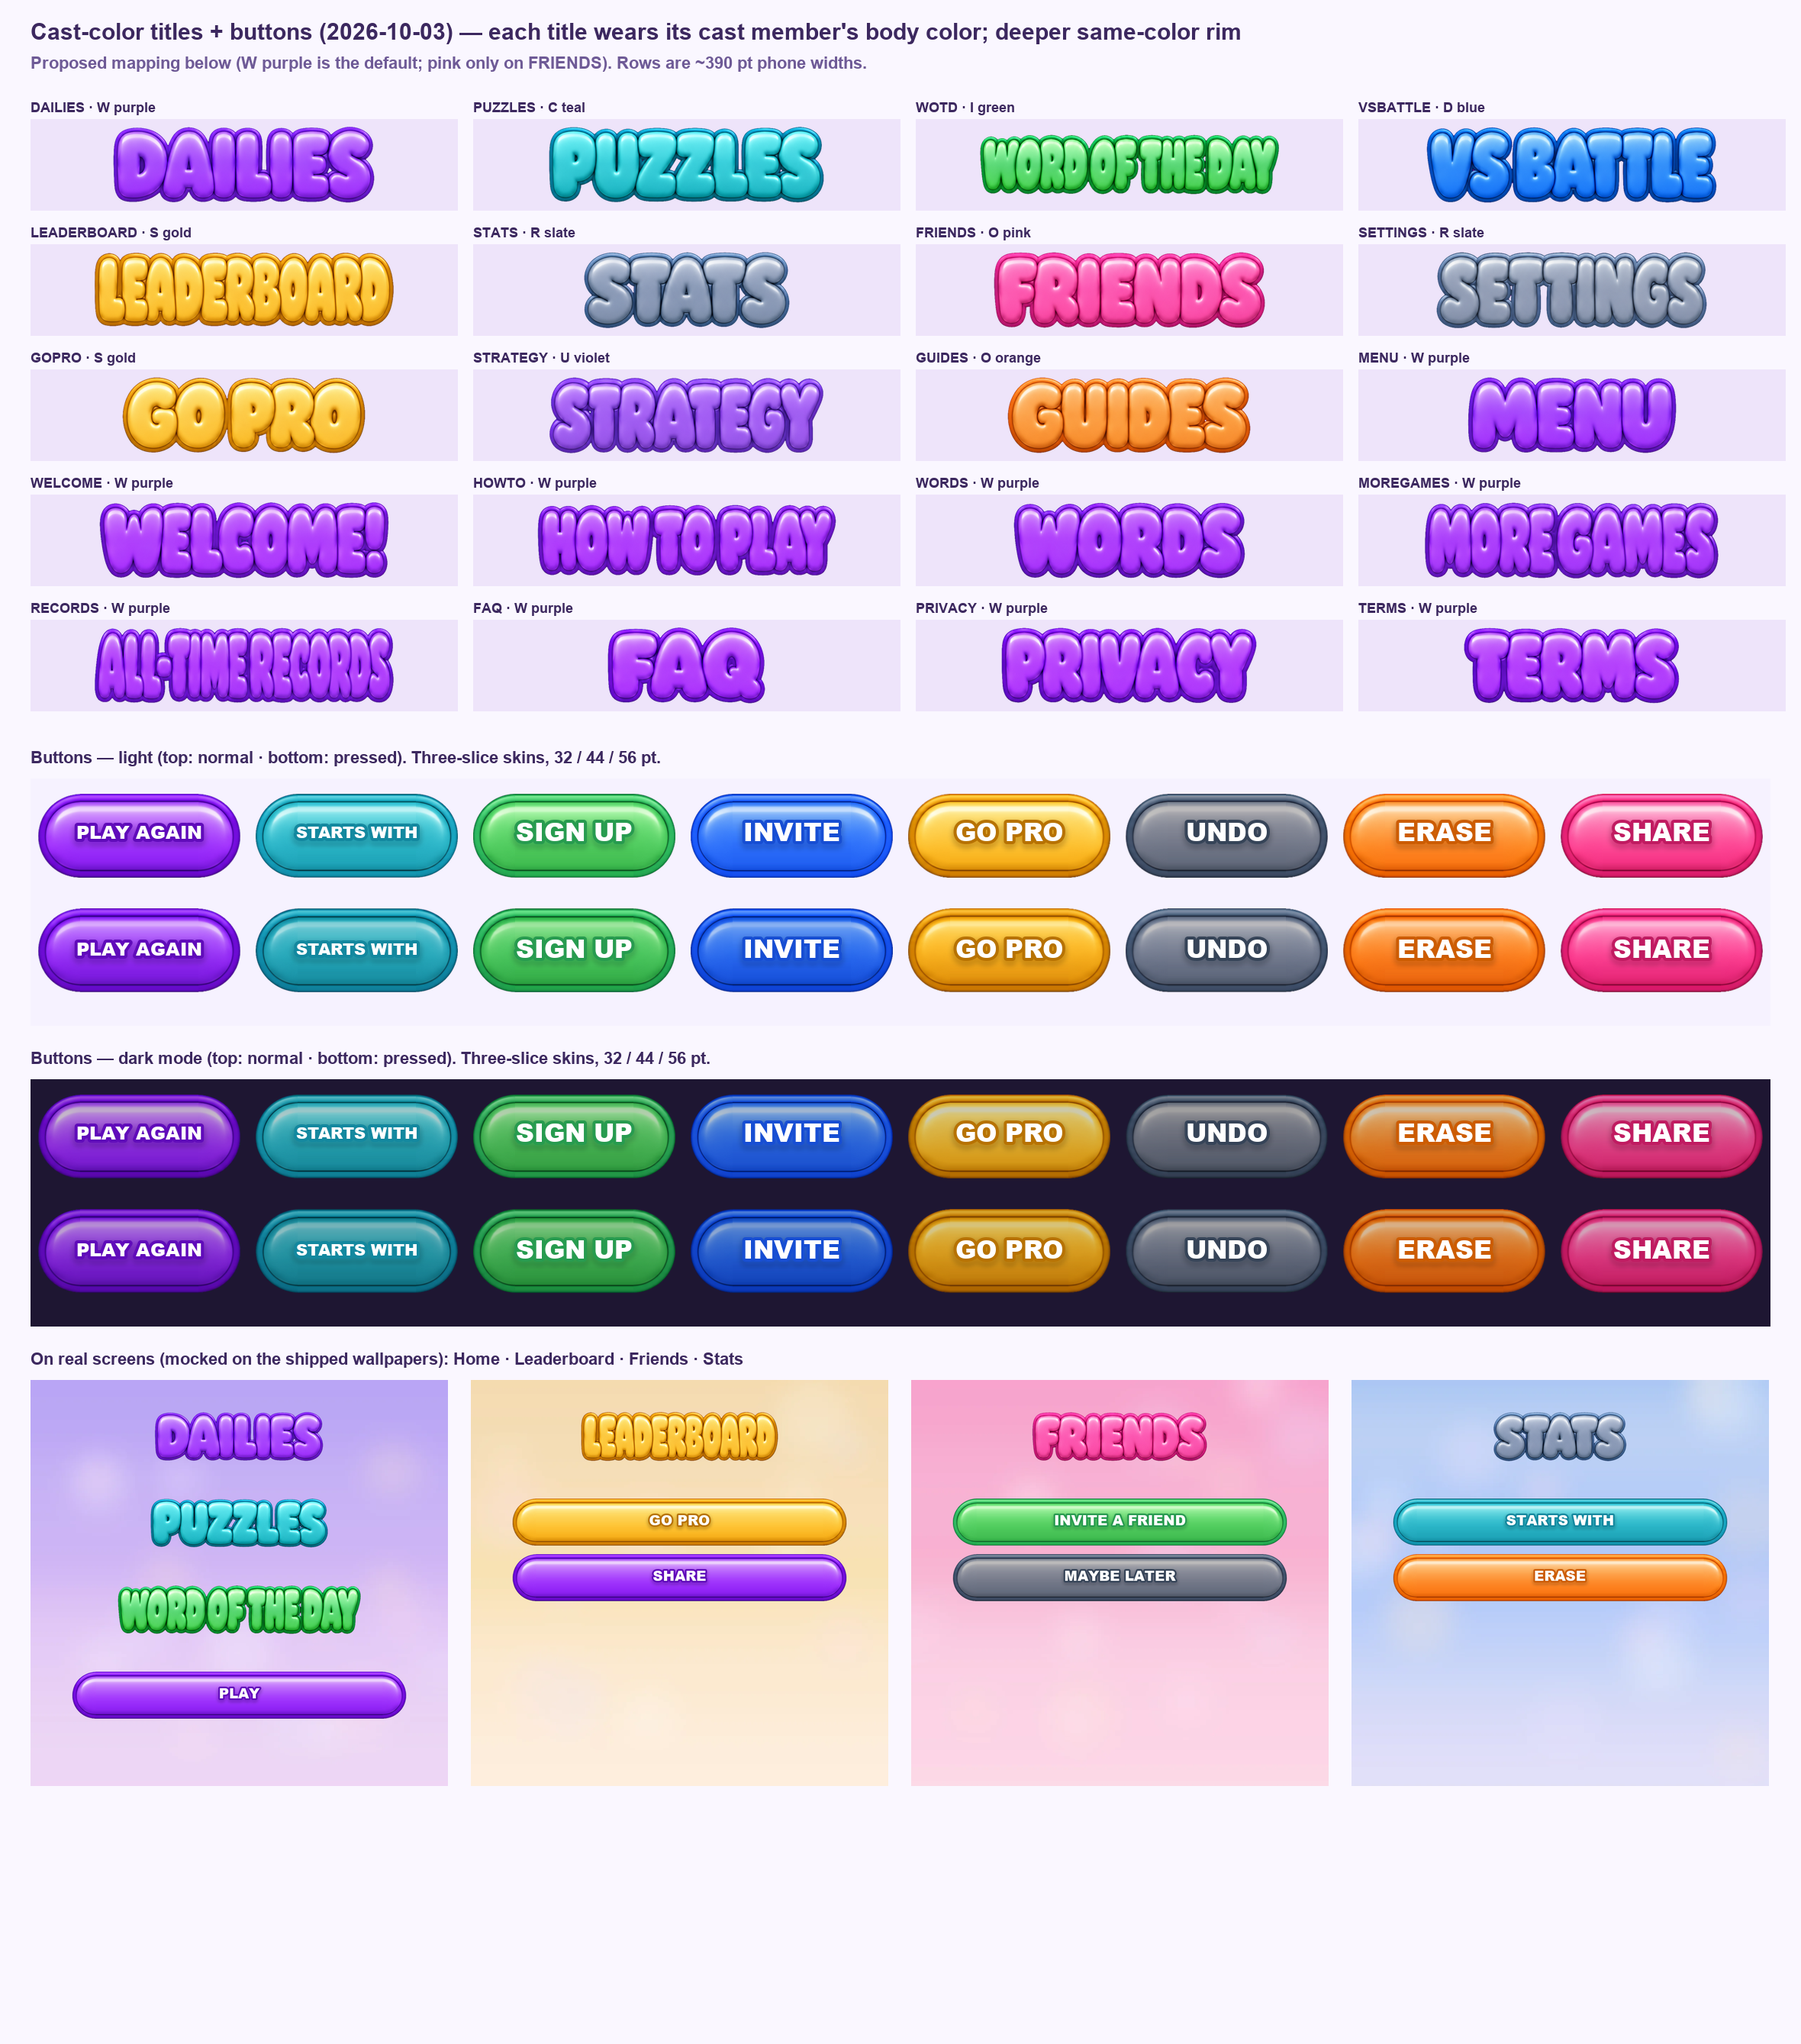
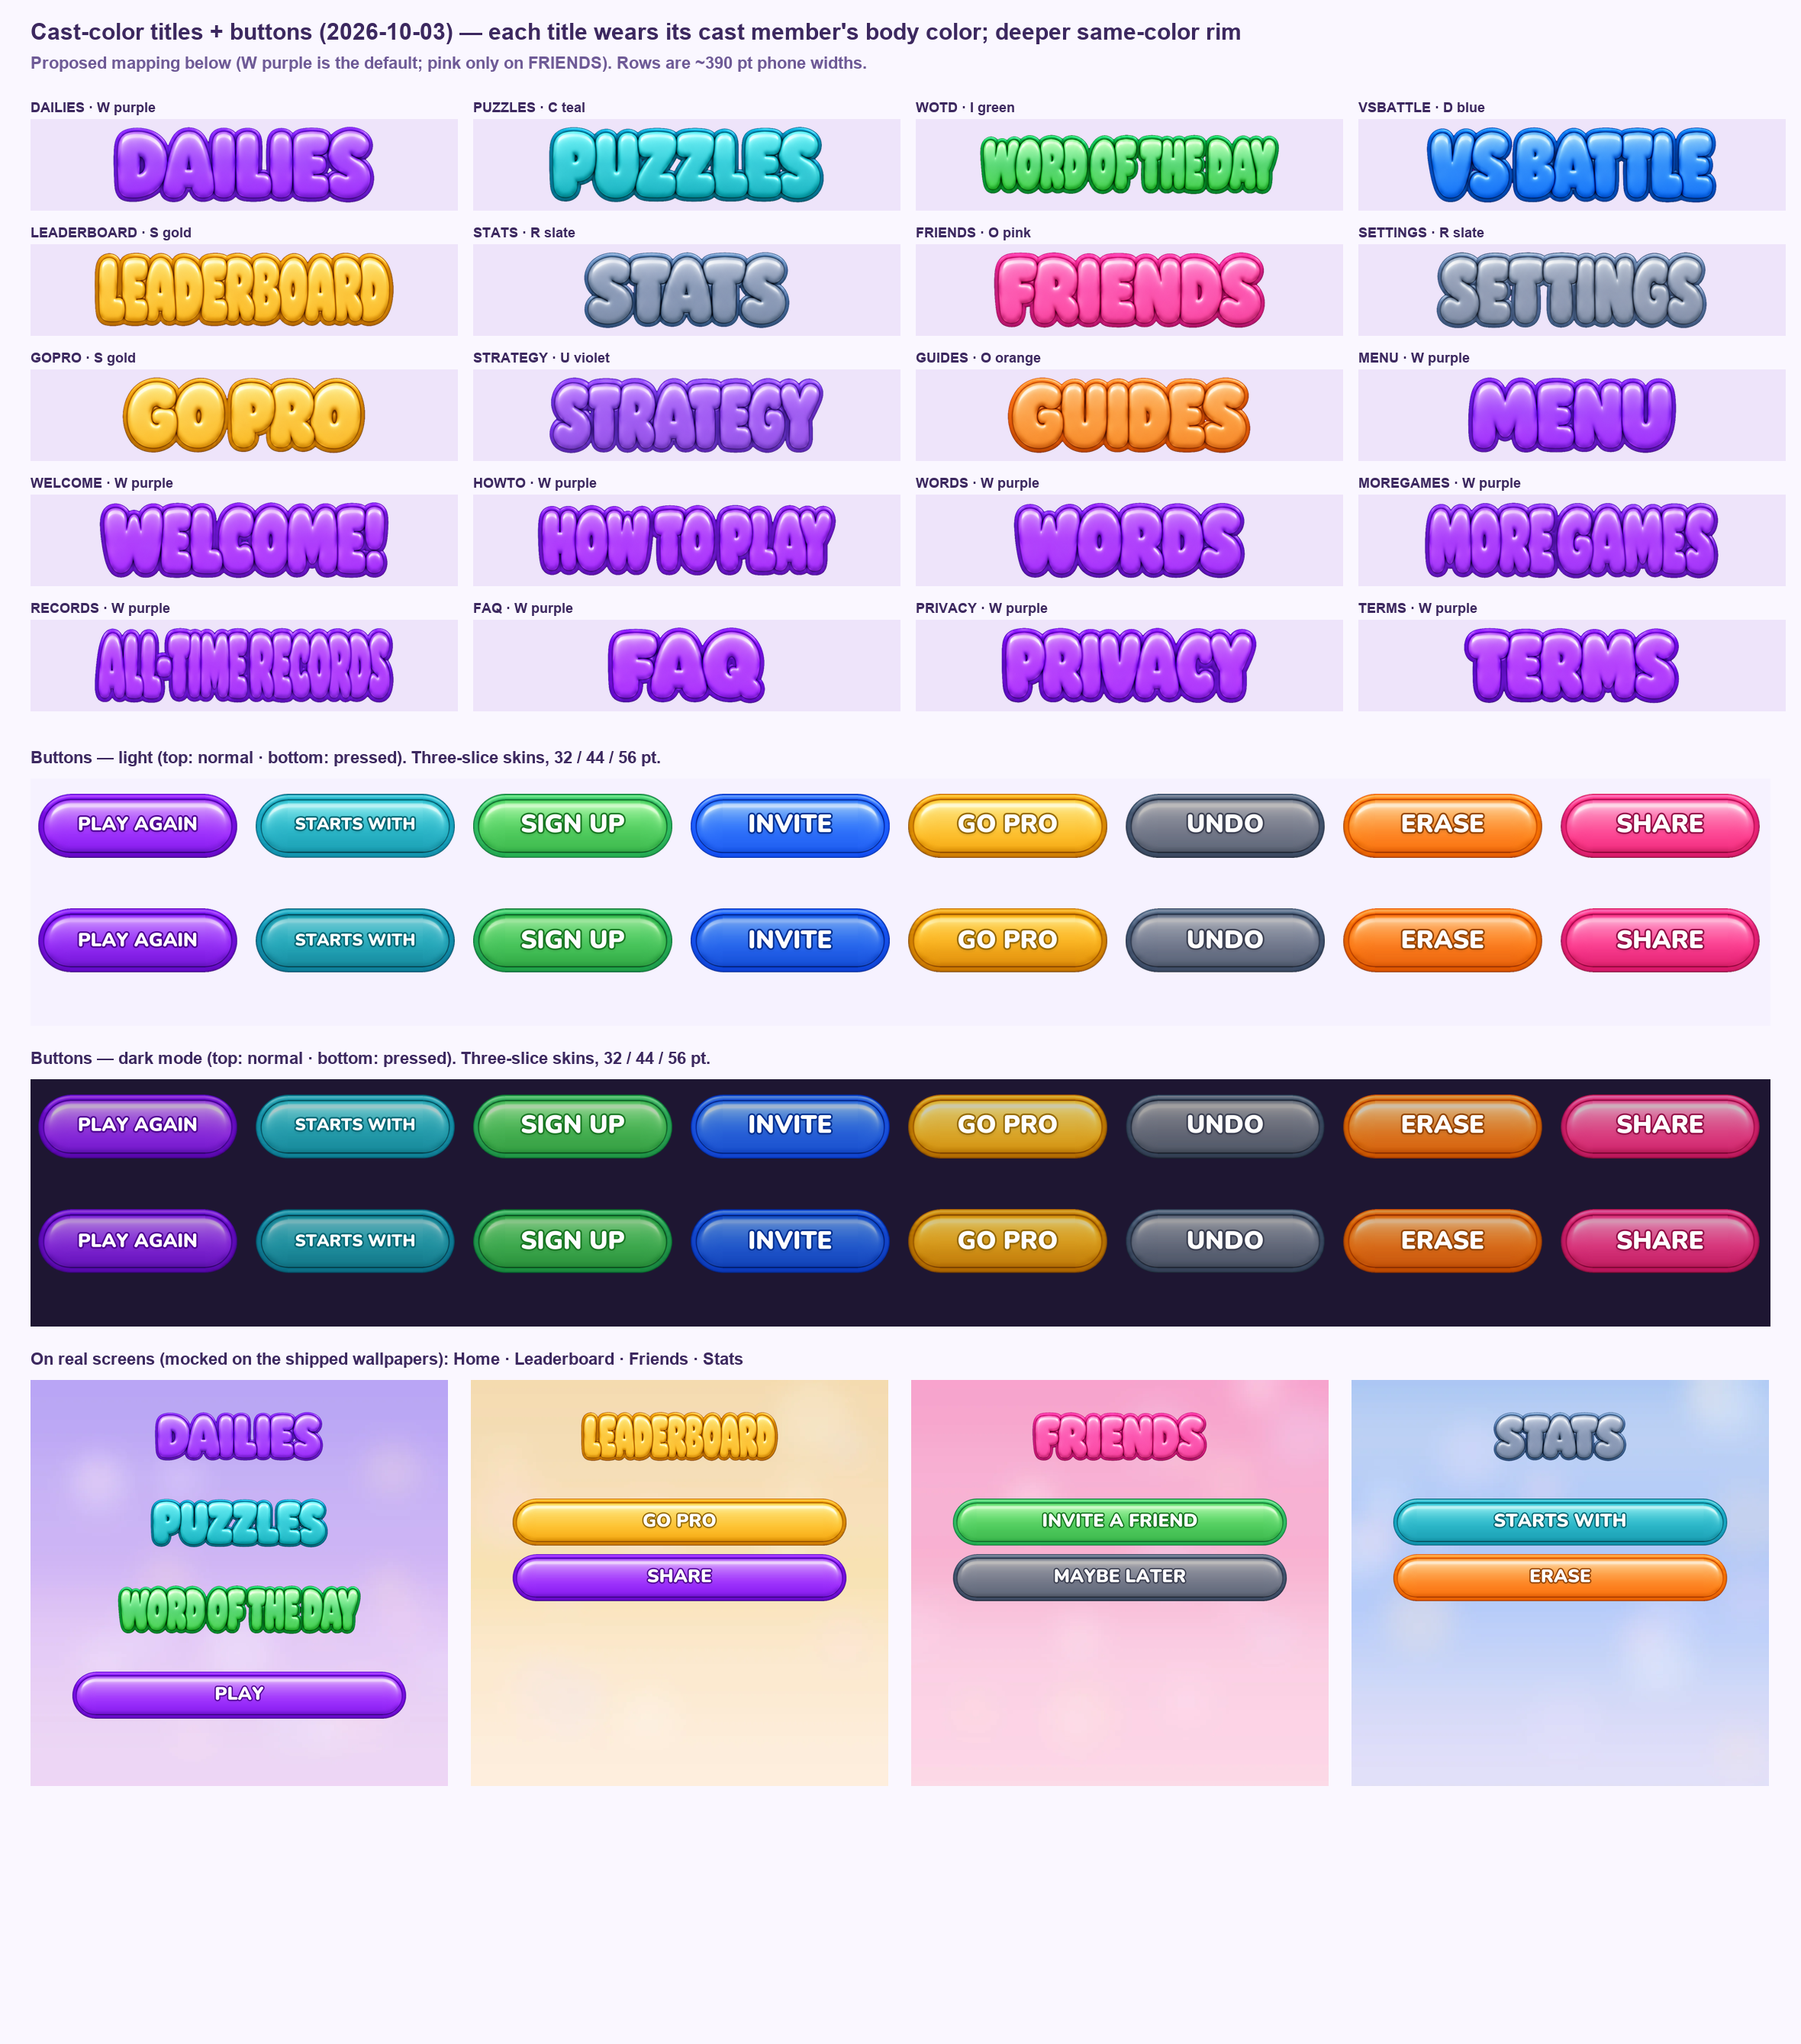
Cast buttons: the label wiring spec (Nunito Black, flat-middle fit with 0.6×h insets, 11 pt floor then grow, ~1.1 pt same-hue stroke, soft same-hue shadow) in labels.json + README, reference renderer + 1×/3× previews, board re-rendered

diff --git a/docs/design/brand/buttons/cast/button_render.py b/docs/design/brand/buttons/cast/button_render.py
@@ -1,0 +1,92 @@
+#!/usr/bin/env python3
+"""Reference renderer for a finished cast-color button (skin + label), following labels.json — the
+wiring spec every platform matches (README.md). Used by the previews + the title/button board.
+  python3 button_render.py   → preview-1x.png, preview-3x.png"""
+import json, os
+import numpy as np
+from PIL import Image, ImageDraw, ImageFilter, ImageFont
+
+HERE = os.path.dirname(os.path.abspath(__file__))
+REPO = os.path.abspath(os.path.join(HERE, '..', '..', '..', '..', '..'))
+FONT = os.path.join(REPO, 'apps', 'web', 'app', 'fonts', 'Nunito-Black.woff')   # the Brand font (Nunito Black)
+SPEC = json.load(open(os.path.join(HERE, 'labels.json')))
+
+
+def _hex(h, a=255):
+    return tuple(int(h[i:i + 2], 16) for i in (1, 3, 5)) + (a,)
+
+
+def label_layout(label, height_pt, width_pt=None):
+    """(font pt, button width pt): the font shrinks from the default to fit the flat middle (inset
+    ≥ capInset × height from each end, ≥ minPadPt), never below minFontPt; if it still doesn't fit,
+    the button grows wider."""
+    r = SPEC['rules']
+    inset = max(r['capInsetOfHeight'] * height_pt, r['minPadPt'] * height_pt / 44)
+    fpt = r['fontOfHeight'] * height_pt
+    measure = lambda pt: ImageFont.truetype(FONT, 200).getlength(label) * pt / 200
+    if width_pt is None:
+        width_pt = measure(fpt) + 2 * inset
+    while fpt > r['minFontPt'] and measure(fpt) > width_pt - 2 * inset:
+        fpt -= 0.25
+    width_pt = max(width_pt, measure(fpt) + 2 * inset)
+    return fpt, width_pt
+
+
+def button(color, label, height_pt=44, width_pt=None, scale=3, state='', dark=False):
+    """The finished button as an RGBA image at `scale` px per pt."""
+    fpt, width_pt = label_layout(label, height_pt, width_pt)
+    h, w = round(height_pt * scale), round(width_pt * scale)
+    size = 's' if height_pt <= 34 else 'm' if height_pt <= 48 else 'l'
+    sk = Image.open(os.path.join(HERE, 'out', f'{color}-{size}{state}{"-dark" if dark else ""}.png')).convert('RGBA')
+    sk = sk.resize((max(h, round(sk.width * h / sk.height)), h), Image.LANCZOS)
+    cap = h // 2
+    out = Image.new('RGBA', (w, h))
+    out.alpha_composite(sk.crop((0, 0, cap, h)), (0, 0))
+    out.alpha_composite(sk.crop((sk.width // 2, 0, sk.width // 2 + 1, h)).resize((w - 2 * cap, h)), (cap, 0))
+    out.alpha_composite(sk.crop((sk.width - cap, 0, sk.width, h)), (w - cap, 0))
+    lab = SPEC['labels'][color]
+    r = SPEC['rules']
+    ss = 4                                              # supersample the text for fractional strokes
+    big = Image.new('RGBA', (w * ss, h * ss))
+    f = ImageFont.truetype(FONT, round(fpt * scale * ss))
+    cx, cy = w * ss / 2, (h * r['labelCenterOfHeight'] + (r['pressedDropPt'] * scale if state else 0)) * ss
+    sh = Image.new('RGBA', big.size)
+    ImageDraw.Draw(sh).text((cx, cy + r['shadowYPt'] * scale * ss), label, font=f, anchor='mm',
+                            fill=_hex(lab['shadow'], round(255 * r['shadowAlpha'])))
+    big.alpha_composite(sh.filter(ImageFilter.GaussianBlur(r['shadowBlurPt'] * scale * ss / 2)))
+    ImageDraw.Draw(big).text((cx, cy), label, font=f, anchor='mm', fill=lab['fill'],
+                             stroke_width=round(r['strokePt'] * scale * ss), stroke_fill=_hex(lab['stroke']))
+    out.alpha_composite(big.resize((w, h), Image.LANCZOS))
+    return out
+
+
+BTNS = [('purple', 'PLAY AGAIN'), ('teal', 'STARTS WITH'), ('green', 'SIGN UP'), ('blue', 'INVITE'),
+        ('gold', 'GO PRO'), ('slate', 'UNDO'), ('orange', 'ERASE'), ('pink', 'SHARE')]
+
+
+def preview(scale, out):
+    cellw = 150                                         # pt per cell (a typical in-app button width)
+    rows = []
+    for dark in (False, True):
+        for state in ('', '-pressed'):
+            rows.append((dark, state))
+    W = round((8 * (cellw + 12) + 24) * scale)
+    H = round((len(rows) * (44 + 16) + 24) * scale)
+    img = Image.new('RGBA', (W, H), (246, 242, 255, 255))
+    y = 12 * scale
+    for dark, state in rows:
+        if dark:
+            img.alpha_composite(Image.new('RGBA', (W, round(60 * scale)), (30, 22, 50, 255)), (0, round(y - 8 * scale)))
+        x = 12 * scale
+        for c, label in BTNS:
+            b = button(c, label, 44, cellw, scale, state, dark)
+            img.alpha_composite(b, (round(x), round(y)))
+            x += (cellw + 12) * scale
+        y += 60 * scale
+    img.convert('RGB').save(out, optimize=True)
+    return out
+
+
+if __name__ == '__main__':
+    print(preview(1, os.path.join(HERE, 'preview-1x.png')))
+    print(preview(3, os.path.join(HERE, 'preview-3x.png')))

diff --git a/docs/design/brand/titles/cast-colors/make-board.py b/docs/design/brand/titles/cast-colors/make-board.py
@@ -29,32 +29,12 @@ def title(name, w, h):
 
 
 def button(color, label, h=132, w=520, state='', dark=False):
-    """Three-slice: caps = h/2 from the skin, the middle column stretched to width w."""
-    sk = Image.open(os.path.join(BTN, f'{color}-l{state}{"-dark" if dark else ""}.png')).convert('RGBA')
-    sk = sk.resize((int(sk.width * h / sk.height), h), Image.LANCZOS)
-    cap = h // 2
-    out = Image.new('RGBA', (w, h))
-    out.alpha_composite(sk.crop((0, 0, cap, h)), (0, 0))
-    out.alpha_composite(sk.crop((sk.width // 2, 0, sk.width // 2 + 1, h)).resize((w - 2 * cap, h)), (cap, 0))
-    out.alpha_composite(sk.crop((sk.width - cap, 0, sk.width, h)), (w - cap, 0))
-    # the label always fits INSIDE the caps (the app shrinks it the same way); colors from labels.json
-    import json
-    from PIL import ImageFilter
-    lab = json.load(open(os.path.join(BTN, '..', 'labels.json')))['labels'][color]
-    pt = h / 44                                           # board px per pt (a 44 pt regular button)
-    d = ImageDraw.Draw(out)
-    fs = int(h * 0.3)
-    while fs > 8 and d.textlength(label, font=FB(fs)) > w - h * 0.9:
-        fs -= 1
-    f = FB(fs)
-    cx, cy = w / 2, h * 0.45 + (3 if state else 0)
-    sh = Image.new('RGBA', out.size)
-    sc = tuple(int(lab['shadow'][i:i + 2], 16) for i in (1, 3, 5)) + (int(255 * lab['shadowAlpha']),)
-    ImageDraw.Draw(sh).text((cx, cy + lab['shadowYPt'] * pt), label, font=f, fill=sc, anchor='mm',
-                            stroke_width=int(lab['strokePt'] * pt), stroke_fill=sc)
-    out.alpha_composite(sh.filter(ImageFilter.GaussianBlur(lab['shadowBlurPt'] * pt)))
-    d.text((cx, cy), label, font=f, fill=lab['fill'], anchor='mm', stroke_width=max(1, int(lab['strokePt'] * pt)), stroke_fill=lab['stroke'])
-    return out
+    """The finished button per the wiring spec (buttons/cast/labels.json + button_render.py), h px tall."""
+    import sys
+    sys.path.insert(0, BTN + '/..')
+    from button_render import button as render
+    scale = h / 44
+    return render(color, label, 44, w / scale, scale, state, dark)
 
 
 def screen(wall, titles, buttons, W=390 * 2, H=760):
@@ -100,7 +80,7 @@ def main():
         strip = Image.new('RGBA', (W - 80, 2 * (132 + 30)), (30, 22, 50, 255) if dark else (246, 242, 255, 255))
         for j, (c, label) in enumerate(BTNS):
             for k, st in enumerate(['', '-pressed']):
-                b = button(c, label, h=110, w=(W - 80) // len(BTNS) - 20, state=st, dark=dark)
+                b = button(c, label, h=84, w=(W - 80) // len(BTNS) - 24, state=st, dark=dark)
                 strip.alpha_composite(b, (10 + j * ((W - 80) // len(BTNS)), 20 + k * 150))
         board.paste(strip.convert('RGB'), (40, y)); y += strip.height + 30
     d.text((40, y), 'On real screens (mocked on the shipped wallpapers): Home · Leaderboard · Friends · Stats', font=F(22), fill=INK)

diff --git a/docs/design/brand/buttons/cast/README.md b/docs/design/brand/buttons/cast/README.md
@@ -1,0 +1,20 @@
+# Cast-color buttons — wiring spec (iOS · Android · web)
+
+Skins: `art-btn-<color>-<s|m|l>[-pressed][-dark]` (shipped ×3; sources in `out/`, made by `make-skins.py`).
+Colors: `purple` (primary), `teal`, `green`, `blue`, `gold`, `slate`, `orange`, `pink` (rare).
+Heights: s = 32 pt, m = 44 pt, l = 56 pt (images are @3x). Text-free.
+
+## Skin: three-slice
+- End caps = height / 2 on each side, drawn as is; only a 1-px middle column stretches.
+- Pressed: swap to the `-pressed` skin and drop the label `pressedDropPt` (1 pt). Dark mode: the `-dark` skins.
+
+## Label (labels.json → `rules` + per-color `labels`)
+- Font: **Nunito Black** (the Brand font), white fill, centered at 47% of the height.
+- Size: start at 0.39 × height, shrink to fit, never below **11 pt**.
+- Fit: the label lives in the flat middle only, inset from each end by max(0.6 × height, 14 pt at 44 pt).
+  If it still doesn't fit at 11 pt, the button grows wider. Text never touches the caps.
+- Stroke: one outline, **~1.1 pt**, in the color's `stroke` (a deeper shade of the same hue), under the white fill.
+  No grey, no white edge, no second or offset outline.
+- Shadow: same color, **35%**, 1 pt down, 2 pt blur.
+
+Reference renderer: `button_render.py` (`preview-1x.png`, `preview-3x.png`).
